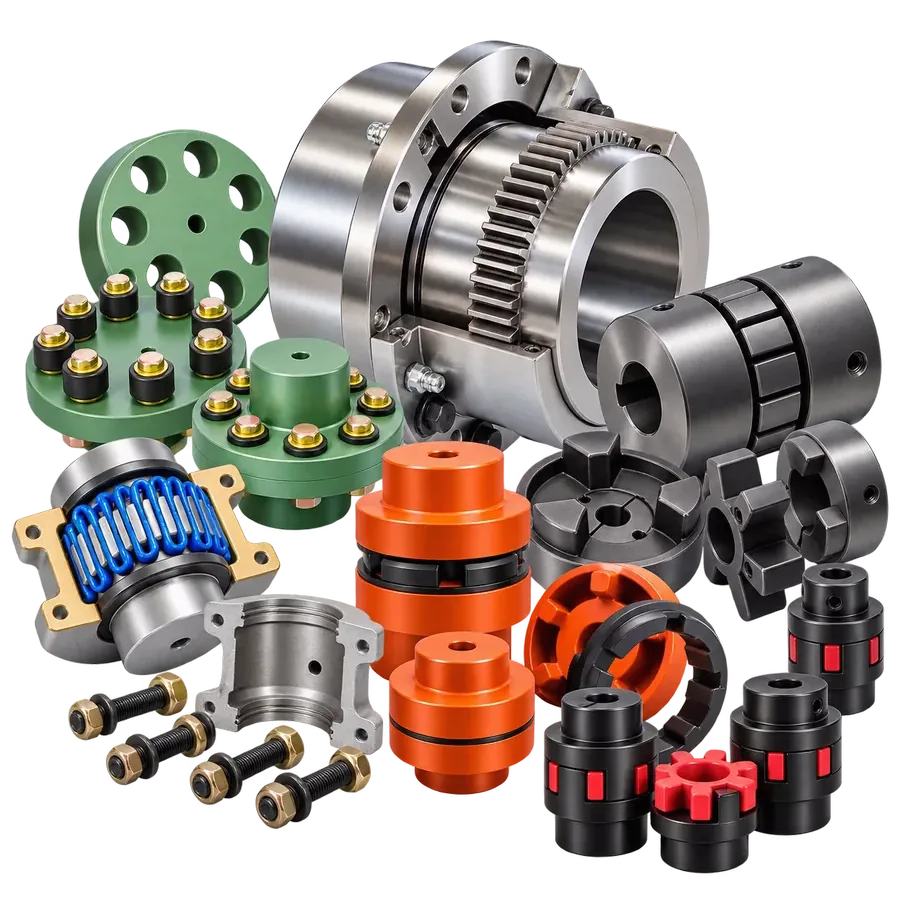
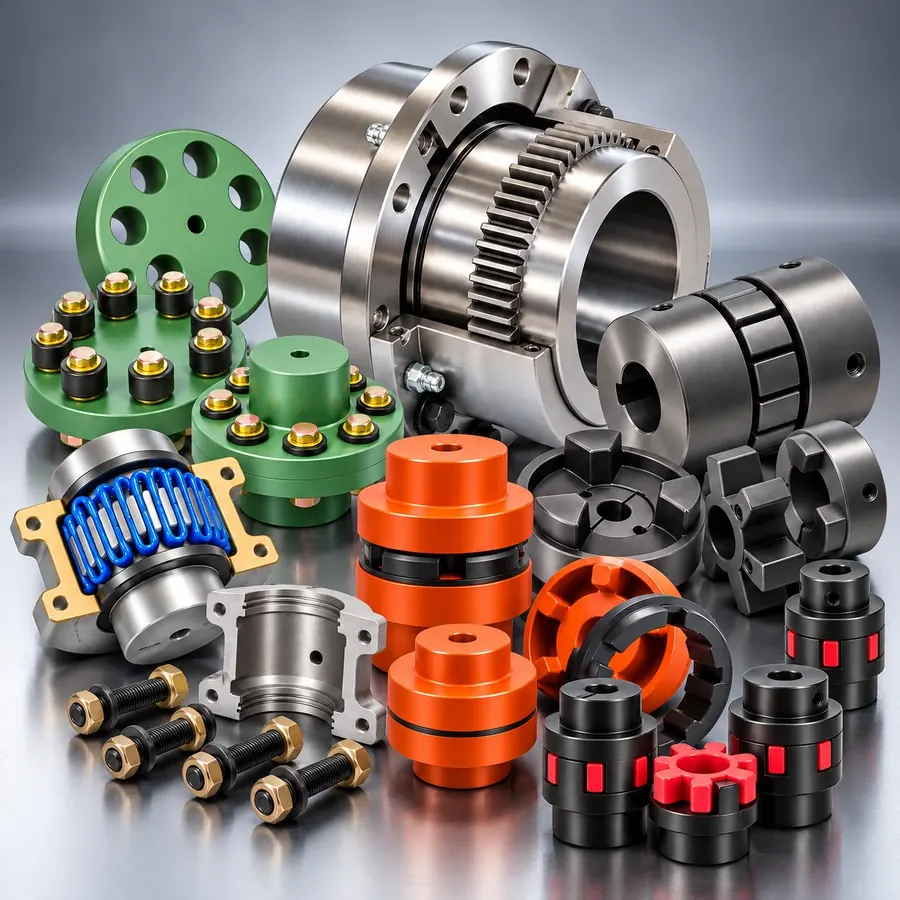
Homepage category tiles: keep Option 2 (studio-background photos) only; remove Option 1, the switch and old image files

diff --git a/index.html b/index.html
@@ -207,47 +207,42 @@
       <h2 class="title">Explore Our <span>Product Categories</span></h2>
       <p>Stockists, traders and customised manufacturers of power transmission products and precision-engineered components. Browse a category or view all products.</p>
     </div>
-    <div class="tile-switch" role="group" aria-label="Category image style">
-      <span class="tile-switch__label">Image style</span>
-      <button class="tile-switch__btn is-active" type="button" data-tiles="1" aria-pressed="true">Option 1</button>
-      <button class="tile-switch__btn" type="button" data-tiles="2" aria-pressed="false">Option 2</button>
-    </div>
     <div class="pgrid">
       <div class="pgrid__row">
         <article class="pcard reveal">
-          <picture class="pcard__o1"><source media="(max-width: 767px)" srcset="assets/img/placeholders/home-power-transmission-m.webp"><img src="assets/img/placeholders/home-power-transmission.webp" alt="Pulleys, Bushes &amp; Belts" loading="lazy"></picture><picture class="pcard__o2"><img src="assets/img/placeholders/home-power-transmission-o2.webp" alt="Pulleys, Bushes &amp; Belts" loading="lazy"></picture>
+          <picture><img src="assets/img/placeholders/home-power-transmission.webp" alt="Pulleys, Bushes &amp; Belts" loading="lazy"></picture>
           <div class="pcard__over"><h3>Pulleys, Bushes &amp; Belts</h3><a href="products.html#pulleys-belts" class="btn btn--outline btn--sm">View Products</a></div>
         </article>
         <article class="pcard reveal">
-          <picture class="pcard__o1"><source media="(max-width: 767px)" srcset="assets/img/placeholders/home-couplings-gear-m.webp"><img src="assets/img/placeholders/home-couplings-gear.webp" alt="Couplings" loading="lazy"></picture><picture class="pcard__o2"><img src="assets/img/placeholders/home-couplings-gear-o2.webp" alt="Couplings" loading="lazy"></picture>
+          <picture><img src="assets/img/placeholders/home-couplings-gear.webp" alt="Couplings" loading="lazy"></picture>
           <div class="pcard__over"><h3>Couplings</h3><a href="products.html#couplings" class="btn btn--outline btn--sm">View Products</a></div>
         </article>
         <article class="pcard reveal">
-          <picture class="pcard__o1"><source media="(max-width: 767px)" srcset="assets/img/placeholders/home-motors-gearbox-m.webp"><img src="assets/img/placeholders/home-motors-gearbox.webp" alt="Motors &amp; Gear Box" loading="lazy"></picture><picture class="pcard__o2"><img src="assets/img/placeholders/home-motors-gearbox-o2.webp" alt="Motors &amp; Gear Box" loading="lazy"></picture>
+          <picture><img src="assets/img/placeholders/home-motors-gearbox.webp" alt="Motors &amp; Gear Box" loading="lazy"></picture>
           <div class="pcard__over"><h3>Motors &amp; Gear Box</h3><a href="products.html#motors-gearbox" class="btn btn--outline btn--sm">View Products</a></div>
         </article>
       </div>
       <div class="pgrid__row">
         <article class="pcard reveal">
-          <picture class="pcard__o1"><source media="(max-width: 767px)" srcset="assets/img/placeholders/home-sprockets-chains-m.webp"><img src="assets/img/placeholders/home-sprockets-chains.webp" alt="Sprockets &amp; Chains" loading="lazy"></picture><picture class="pcard__o2"><img src="assets/img/placeholders/home-sprockets-chains-o2.webp" alt="Sprockets &amp; Chains" loading="lazy"></picture>
+          <picture><img src="assets/img/placeholders/home-sprockets-chains.webp" alt="Sprockets &amp; Chains" loading="lazy"></picture>
           <div class="pcard__over"><h3>Sprockets &amp; Chains</h3><a href="products.html#sprockets-chains" class="btn btn--outline btn--sm">View Products</a></div>
         </article>
         <article class="pcard reveal">
-          <picture class="pcard__o1"><source media="(max-width: 767px)" srcset="assets/img/placeholders/home-gears-shafts-m.webp"><img src="assets/img/placeholders/home-gears-shafts.webp" alt="Gears &amp; Shafts" loading="lazy"></picture><picture class="pcard__o2"><img src="assets/img/placeholders/home-gears-shafts-o2.webp" alt="Gears &amp; Shafts" loading="lazy"></picture>
+          <picture><img src="assets/img/placeholders/home-gears-shafts.webp" alt="Gears &amp; Shafts" loading="lazy"></picture>
           <div class="pcard__over"><h3>Gears &amp; Shafts</h3><a href="products.html#gears-shafts" class="btn btn--outline btn--sm">View Products</a></div>
         </article>
         <article class="pcard reveal">
-          <picture class="pcard__o1"><source media="(max-width: 767px)" srcset="assets/img/placeholders/home-seals-rubber-nylon-m.webp"><img src="assets/img/placeholders/home-seals-rubber-nylon.webp" alt="Seals &amp; Customised Rubber Products" loading="lazy"></picture><picture class="pcard__o2"><img src="assets/img/placeholders/home-seals-rubber-nylon-o2.webp" alt="Seals &amp; Customised Rubber Products" loading="lazy"></picture>
+          <picture><img src="assets/img/placeholders/home-seals-rubber-nylon.webp" alt="Seals &amp; Customised Rubber Products" loading="lazy"></picture>
           <div class="pcard__over"><h3>Seals &amp; Customised Rubber Products</h3><a href="products.html#seals-rubber" class="btn btn--outline btn--sm">View Products</a></div>
         </article>
       </div>
       <div class="pgrid__row pgrid__row--2">
         <article class="pcard reveal">
-          <picture class="pcard__o1"><source media="(max-width: 767px)" srcset="assets/img/placeholders/home-industrial-components-m.png"><img src="assets/img/placeholders/home-industrial-components.png" alt="Fasteners" loading="lazy"></picture><picture class="pcard__o2"><img src="assets/img/placeholders/home-industrial-components-o2.webp" alt="Fasteners" loading="lazy"></picture>
+          <picture><img src="assets/img/placeholders/home-industrial-components.webp" alt="Fasteners" loading="lazy"></picture>
           <div class="pcard__over"><h3>Fasteners</h3><a href="products.html#fasteners" class="btn btn--outline btn--sm">View Products</a></div>
         </article>
         <article class="pcard reveal">
-          <picture class="pcard__o1"><source media="(max-width: 767px)" srcset="assets/img/placeholders/home-ferrous-metals-m.webp"><img src="assets/img/placeholders/home-ferrous-metals.webp" alt="Ferrous &amp; Non-Ferrous Metals" loading="lazy"></picture><picture class="pcard__o2"><img src="assets/img/placeholders/home-ferrous-metals-o2.webp" alt="Ferrous &amp; Non-Ferrous Metals" loading="lazy"></picture>
+          <picture><img src="assets/img/placeholders/home-ferrous-metals.webp" alt="Ferrous &amp; Non-Ferrous Metals" loading="lazy"></picture>
           <div class="pcard__over"><h3>Ferrous &amp; Non-Ferrous Metals</h3><a href="products.html#metals" class="btn btn--outline btn--sm">View Products</a></div>
         </article>
       </div>

diff --git a/assets/css/style.css b/assets/css/style.css
@@ -952,7 +952,7 @@ button { font: inherit; color: inherit; }
   .about__img { aspect-ratio: 1 / .9; }
 }
 
-/* phones: homepage category tiles in 2 columns - whole product visible, whole tile is the link (no button) */
+/* phones: homepage category tiles in 2 columns - whole tile is the link (no button) */
 @media (max-width: 767px) {
   .pgrid { display: grid; grid-template-columns: repeat(2, minmax(0, 1fr)); gap: 10px; }
   .pgrid__row { display: contents; }
@@ -1003,20 +1003,13 @@ button { font: inherit; color: inherit; }
   }
 }
 
-/* ---------- Homepage category tiles: Option 1 (transparent photos on navy) / Option 2 (studio-background photos) ---------- */
-.tile-switch { display: flex; align-items: center; gap: 8px; margin: 0 0 18px; }
-.tile-switch__label { font: 500 calc(11px * var(--fs))/1 var(--font-body); letter-spacing: .12em; text-transform: uppercase; color: var(--text); margin-right: 4px; }
-.tile-switch__btn { padding: 8px 16px; font: 600 calc(12px * var(--fs))/1.2 var(--font-body); cursor: pointer; color: var(--ink); background: #fff; border: 1.5px solid var(--navy); border-radius: 20px; transition: background .2s, color .2s; }
-.tile-switch__btn:hover { background: var(--bg-2); }
-.tile-switch__btn.is-active { background: var(--navy); color: #fff; }
-.pcard picture.pcard__o2 { display: none; }
-.products.tiles-opt2 .pcard picture.pcard__o1 { display: none; }
-.products.tiles-opt2 .pcard picture.pcard__o2 { display: block; width: 100%; height: 100%; }
-.products.tiles-opt2 .pcard picture.pcard__o2 img { width: 100%; height: 100%; object-fit: cover; padding: 0; }
-.products.tiles-opt2 .pcard__over { background: rgba(0, 17, 52, .74); }
+/* Homepage category tiles use full-bleed studio photos (cover) */
+.pcard picture { display: block; width: 100%; height: 100%; }
+.pcard img { object-fit: cover; padding: 0; }
+.pcard__over { background: rgba(0, 17, 52, .74); }
 @media (max-width: 767px) {
-  .products.tiles-opt2 .pcard__over { background: linear-gradient(rgba(0, 17, 52, 0) 58%, rgba(0, 17, 52, .88)); }
+  .pcard__over { background: linear-gradient(rgba(0, 17, 52, 0) 58%, rgba(0, 17, 52, .88)); }
 }
 @media (hover: none) {
-  .products.tiles-opt2 .pcard__over { background: linear-gradient(rgba(0, 17, 52, 0) 58%, rgba(0, 17, 52, .88)); }
+  .pcard__over { background: linear-gradient(rgba(0, 17, 52, 0) 58%, rgba(0, 17, 52, .88)); }
 }

diff --git a/assets/js/main.js b/assets/js/main.js
@@ -393,23 +393,6 @@
     }
   }
 
-  /* ---------- Homepage category tiles: image style switch (Option 1 / Option 2) ---------- */
-  var tileBtns = $$('[data-tiles]');
-  var tileSection = $('#products');
-  function setTiles(v) {
-    if (!tileSection) return;
-    tileSection.classList.toggle('tiles-opt2', v === '2');
-    tileBtns.forEach(function (b) {
-      var on = b.getAttribute('data-tiles') === v;
-      b.classList.toggle('is-active', on);
-      b.setAttribute('aria-pressed', on ? 'true' : 'false');
-    });
-  }
-  if (tileBtns.length && tileSection) {
-    tileBtns.forEach(function (b) { b.addEventListener('click', function () { setTiles(b.getAttribute('data-tiles')); }); });
-    if (/[?&]tiles=2(&|$)/.test(location.search)) setTiles('2');
-  }
-
   /* ---------- Back-to-top button ---------- */
   var backTop = $('#backTop');
   if (backTop) {
